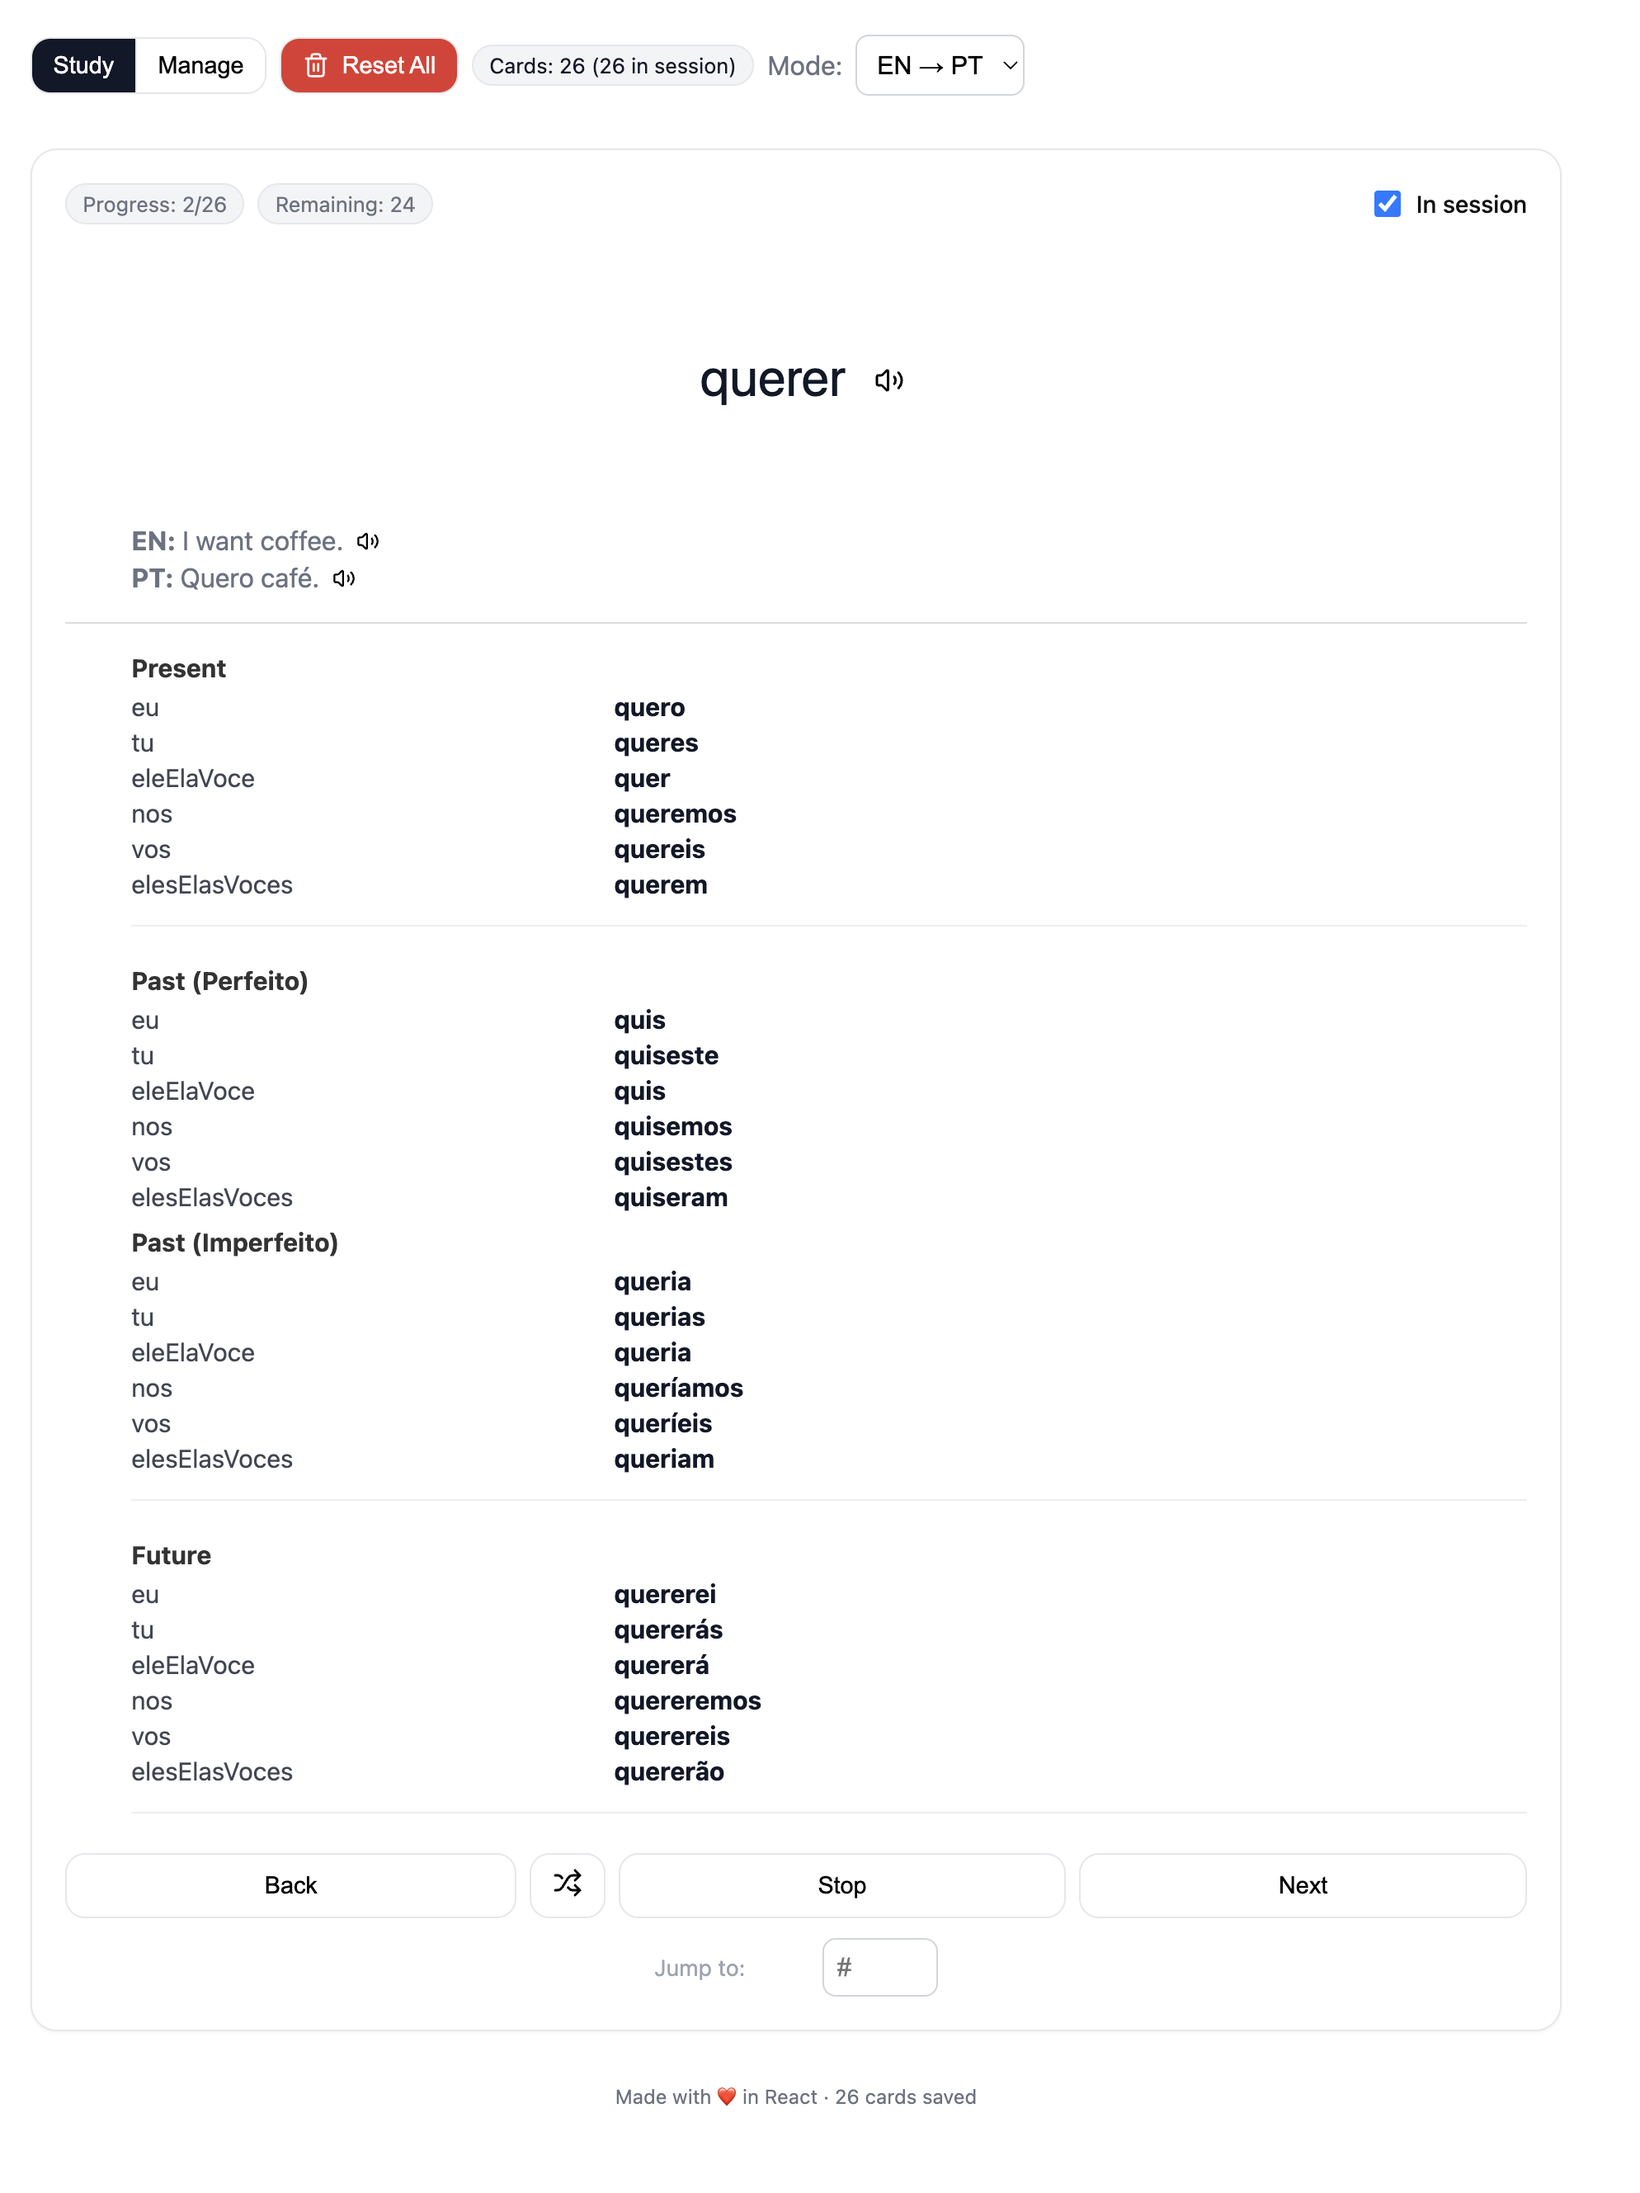
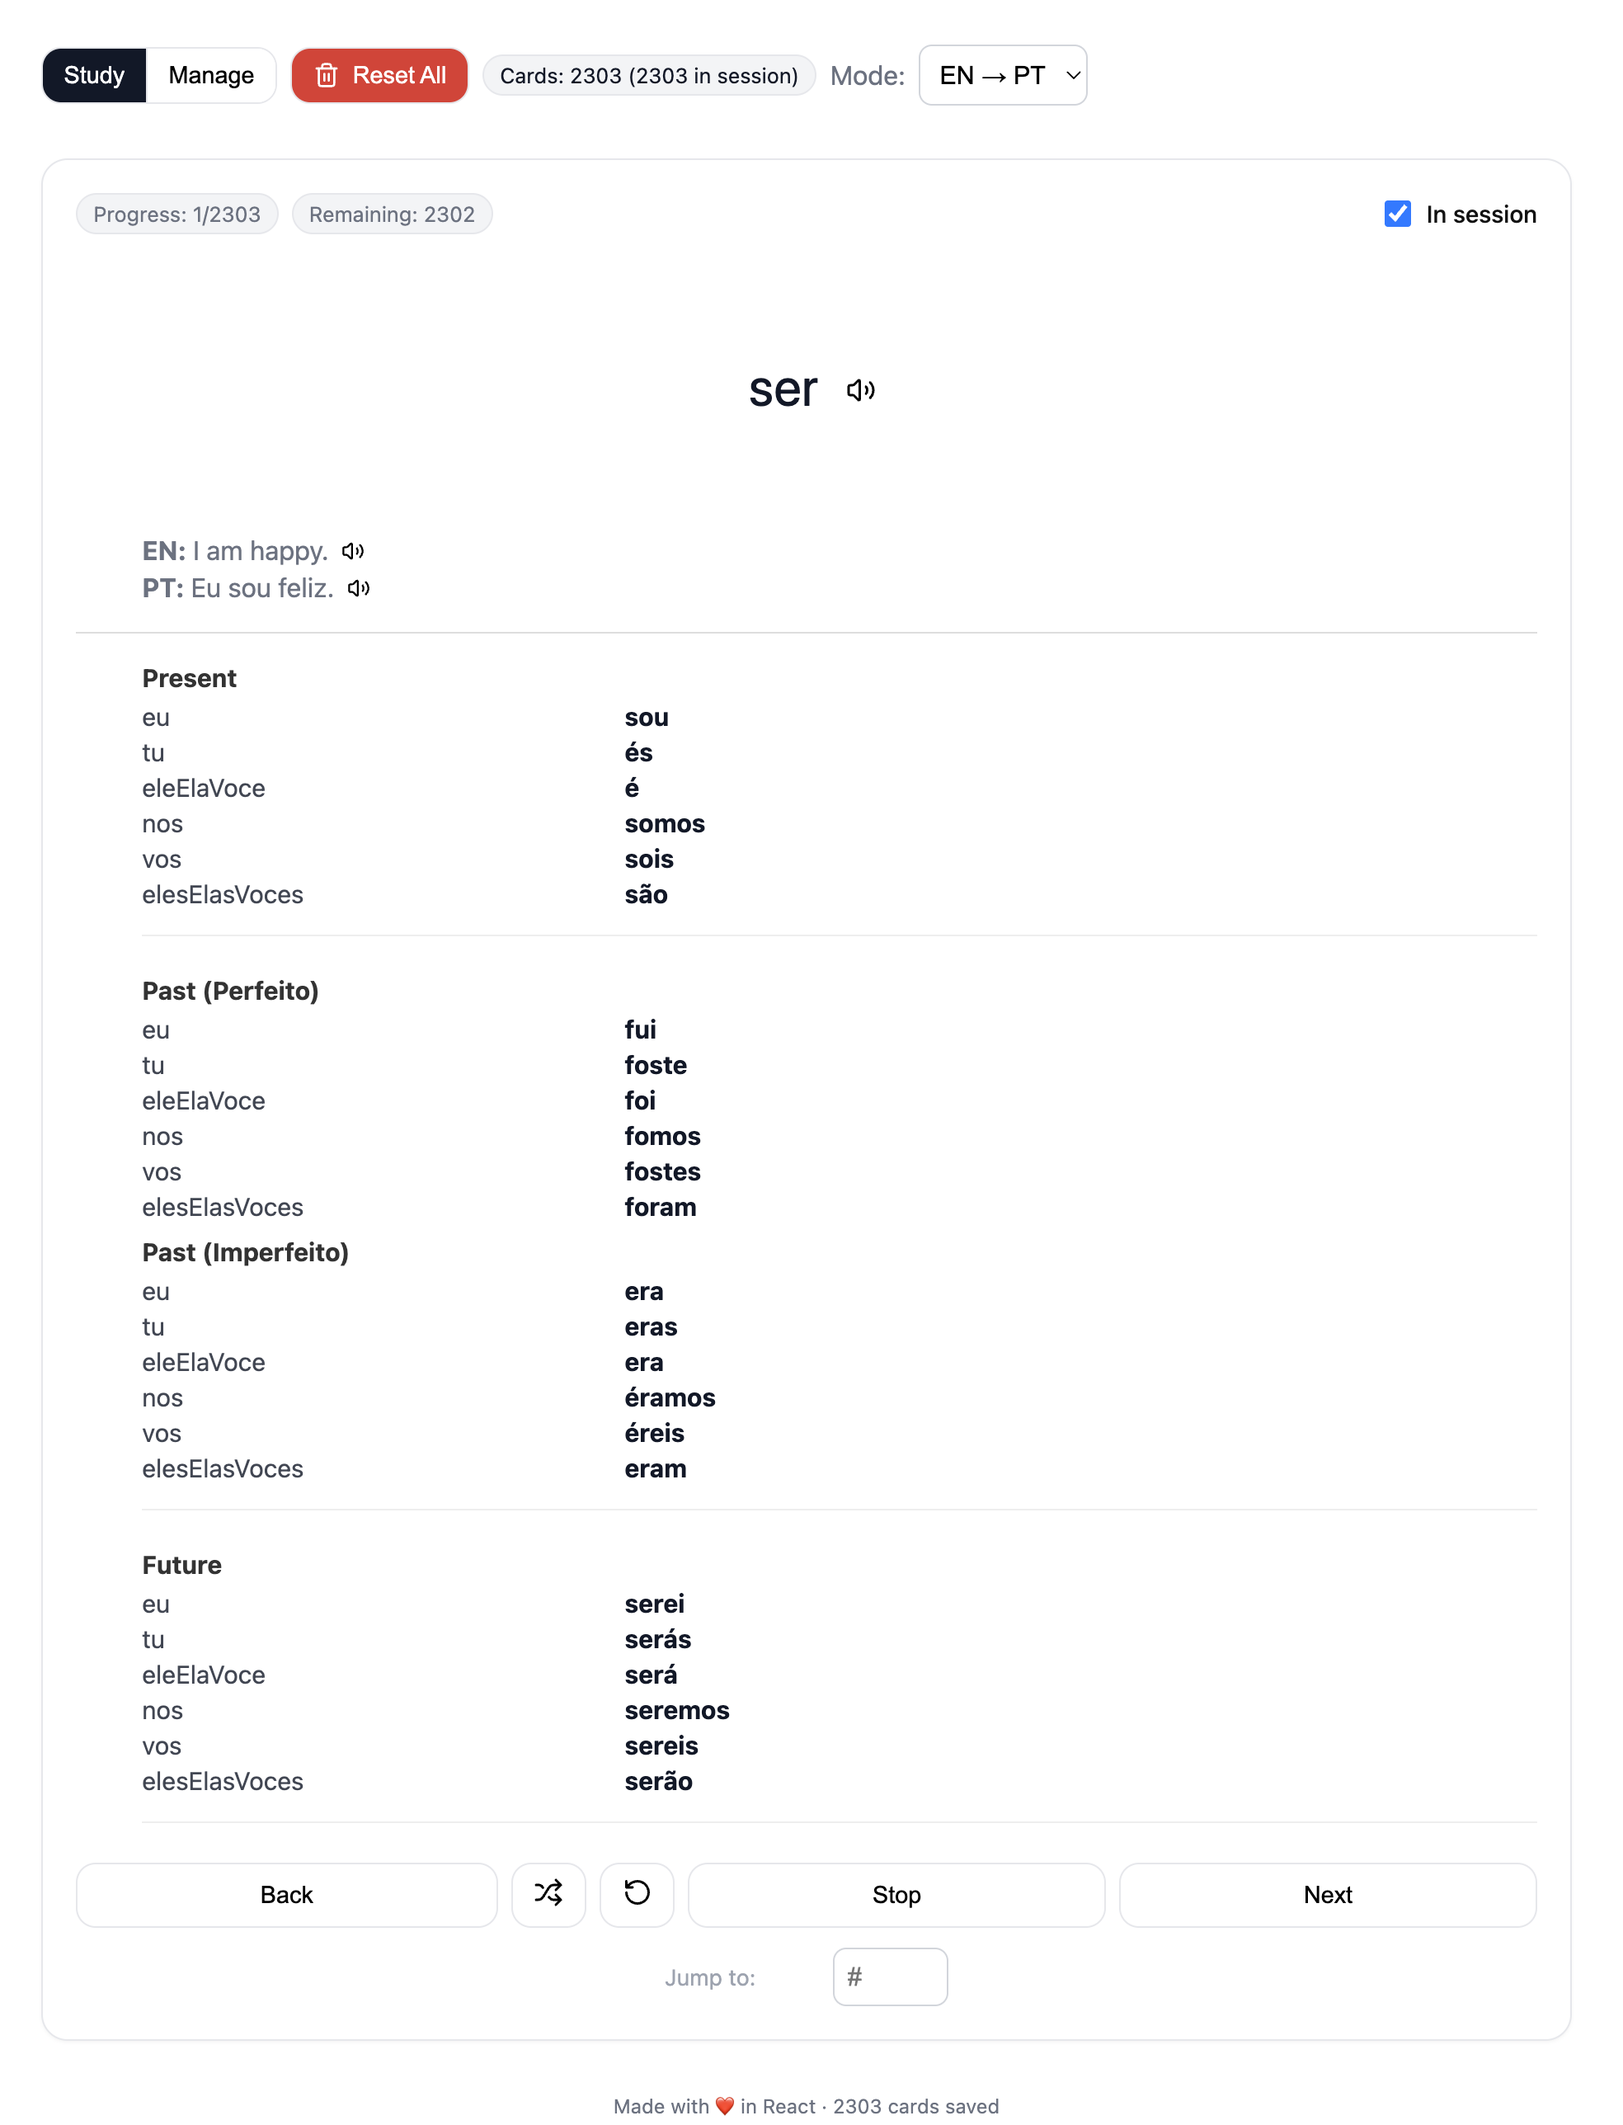
feat: preserve card order and save study progress

diff --git a/src/hooks/useSession.ts b/src/hooks/useSession.ts
@@ -1,6 +1,12 @@
 import { useCallback, useEffect, useState } from 'react';
 import type { Card } from '../flashcard-types';
-import { load, SELECTED_KEY, SESSION_KEY, shuffle } from '../utils/storage';
+import {
+  load,
+  PROGRESS_KEY,
+  SELECTED_KEY,
+  SESSION_KEY,
+  shuffle,
+} from '../utils/storage';
 
 export function useSession(cards: Card[], hasImported: boolean) {
   const [session, setSession] = useState<Card[]>([]);
@@ -29,6 +35,13 @@ export function useSession(cards: Card[], hasImported: boolean) {
     }
   }, [selectedIds, isSessionRestored]);
 
+  // Save current progress (idx) to localStorage
+  useEffect(() => {
+    if (isSessionRestored && session.length > 0) {
+      localStorage.setItem(PROGRESS_KEY, JSON.stringify(idx));
+    }
+  }, [idx, isSessionRestored, session.length]);
+
   // Restore session on mount
   useEffect(() => {
     if (hasImported) {
@@ -38,9 +51,11 @@ export function useSession(cards: Card[], hasImported: boolean) {
     try {
       const rawIds = localStorage.getItem(SELECTED_KEY);
       const rawSession = localStorage.getItem(SESSION_KEY);
+      const rawProgress = localStorage.getItem(PROGRESS_KEY);
 
       const savedIds: string[] = rawIds ? JSON.parse(rawIds) : [];
       const savedSession: Card[] = rawSession ? JSON.parse(rawSession) : [];
+      const savedProgress: number = rawProgress ? JSON.parse(rawProgress) : 0;
 
       // Try restoring saved session first
       if (Array.isArray(savedSession) && savedSession.length > 0) {
@@ -51,6 +66,12 @@ export function useSession(cards: Card[], hasImported: boolean) {
         if (restored.length > 0) {
           setSession(restored);
           setSelectedIds(new Set(restored.map((c) => c.id)));
+          // Restore progress, but ensure it's within bounds
+          const restoredIdx = Math.max(
+            0,
+            Math.min(savedProgress, restored.length - 1)
+          );
+          setIdx(restoredIdx);
           setIsSessionRestored(true);
           return;
         }
@@ -118,13 +139,13 @@ export function useSession(cards: Card[], hasImported: boolean) {
   );
 
   const regenerateSession = useCallback(
-    (preserveSelection = true) => {
+    (preserveSelection = true, shouldShuffle = false) => {
       const useSelected = selectedIds.size > 0;
       const base = useSelected
         ? cards.filter((c) => selectedIds.has(c.id))
         : cards;
 
-      setSession(shuffle(base));
+      setSession(shouldShuffle ? shuffle(base) : base);
       if (!preserveSelection && base.length) {
         setSelectedIds(new Set(base.map((c) => c.id)));
       }
@@ -148,6 +169,7 @@ export function useSession(cards: Card[], hasImported: boolean) {
     setShowBack(false);
     localStorage.removeItem(SESSION_KEY);
     localStorage.removeItem(SELECTED_KEY);
+    localStorage.removeItem(PROGRESS_KEY);
   }, []);
 
   const next = useCallback(() => {
@@ -161,6 +183,12 @@ export function useSession(cards: Card[], hasImported: boolean) {
   const reset = useCallback(() => {
     setIdx(0);
     setShowBack(false);
+  }, []);
+
+  const resetProgress = useCallback(() => {
+    setIdx(0);
+    setShowBack(false);
+    localStorage.setItem(PROGRESS_KEY, JSON.stringify(0));
   }, []);
 
   const active = session[idx] ?? null;
@@ -180,6 +208,7 @@ export function useSession(cards: Card[], hasImported: boolean) {
     next,
     prev,
     reset,
+    resetProgress,
     setSession,
     goTo,
   };

diff --git a/src/components/StudyMode.tsx b/src/components/StudyMode.tsx
@@ -1,4 +1,4 @@
-import { Shuffle, Volume2 } from 'lucide-react';
+import { Shuffle, Volume2, RotateCcw } from 'lucide-react';
 import React from 'react';
 import type { Card } from '../flashcard-types';
 import { isSpeechSupported, speak } from '../utils/speech';
@@ -17,6 +17,7 @@ interface StudyModeProps {
   onNext: () => void;
   onStop: () => void;
   onShuffle: () => void;
+  onResetProgress: () => void;
   onInput: (value: number | null) => void;
   onGoto: () => void;
   gotoIndex: number | null;
@@ -39,6 +40,7 @@ export function StudyMode({
   gotoIndex,
   onStop,
   onShuffle,
+  onResetProgress,
 }: StudyModeProps) {
   const frontText = active
     ? direction === 'en-pt'
@@ -337,6 +339,15 @@ export function StudyMode({
               style={{ flex: '0 0 auto' }}
             >
               <Shuffle size={18} />
+            </button>
+            <button
+              type="button"
+              className="btn"
+              onClick={onResetProgress}
+              title="Reset progress to first card"
+              style={{ flex: '0 0 auto' }}
+            >
+              <RotateCcw size={18} />
             </button>
             <button
               type="button"

diff --git a/src/utils/speech.ts b/src/utils/speech.ts
@@ -17,11 +17,36 @@ export const speak = (
   // Cancel any ongoing speech
   window.speechSynthesis.cancel();
 
+  // English sounds better at normal speed
+  const speechRate = lang.startsWith('en') ? 1.0 : rate;
+
   const utterance = new SpeechSynthesisUtterance(text);
   utterance.lang = lang;
-  utterance.rate = rate;
+  utterance.rate = speechRate;
   utterance.pitch = 1.0;
   utterance.volume = 1.0;
+
+  // Select better quality voice, prefer standard voices
+  const voices = window.speechSynthesis.getVoices();
+  const langVoices = voices.filter((v) => v.lang === lang);
+
+  // Try each preferred voice in order
+  const preferredNames = [
+    'Samantha',
+    'Alex',
+    'Karen',
+    'Victoria',
+    'Daniel',
+    'Google',
+  ];
+  let voice = null;
+  for (const name of preferredNames) {
+    voice = langVoices.find((v) => v.name.includes(name));
+    console.log(voice);
+    if (voice) break;
+  }
+  if (!voice) voice = langVoices.find((v) => v.default) || langVoices[0];
+  if (voice) utterance.voice = voice;
 
   window.speechSynthesis.speak(utterance);
 };

diff --git a/src/App.tsx b/src/App.tsx
@@ -30,6 +30,7 @@ export function App() {
     next,
     prev,
     reset,
+    resetProgress,
     setSession,
     goTo,
   } = useSession(cards, hasImported);
@@ -308,7 +309,8 @@ export function App() {
           gotoIndex={gotoIndex}
           onInput={setGotoIndex}
           onGoto={handleGoto}
-          onShuffle={() => regenerateSession(true)}
+          onShuffle={() => regenerateSession(true, true)}
+          onResetProgress={resetProgress}
         />
       )}
 
@@ -322,7 +324,7 @@ export function App() {
           onAdd={addCard}
           onImportCards={handleImportCards}
           onExportCSV={exportCSV}
-          onRegenerateSession={regenerateSession}
+          onRegenerateSession={(preserveSelection) => regenerateSession(preserveSelection, false)}
           onClearSelection={handleClearSelection}
           setHasImported={setHasImported}
         />

diff --git a/src/utils/storage.ts b/src/utils/storage.ts
@@ -3,6 +3,7 @@ import type { Card, ExamplePair } from '../flashcard-types';
 export const KEY = 'flashcards-min-v1';
 export const SESSION_KEY = 'flashcards-session-v1';
 export const SELECTED_KEY = 'flashcards-selected-v1';
+export const PROGRESS_KEY = 'flashcards-progress-v1';
 export const PAGE_SIZE_KEY = 'flashcards-page-size';
 
 export const uid = () => Math.random().toString(36).slice(2) + Date.now().toString(36);
